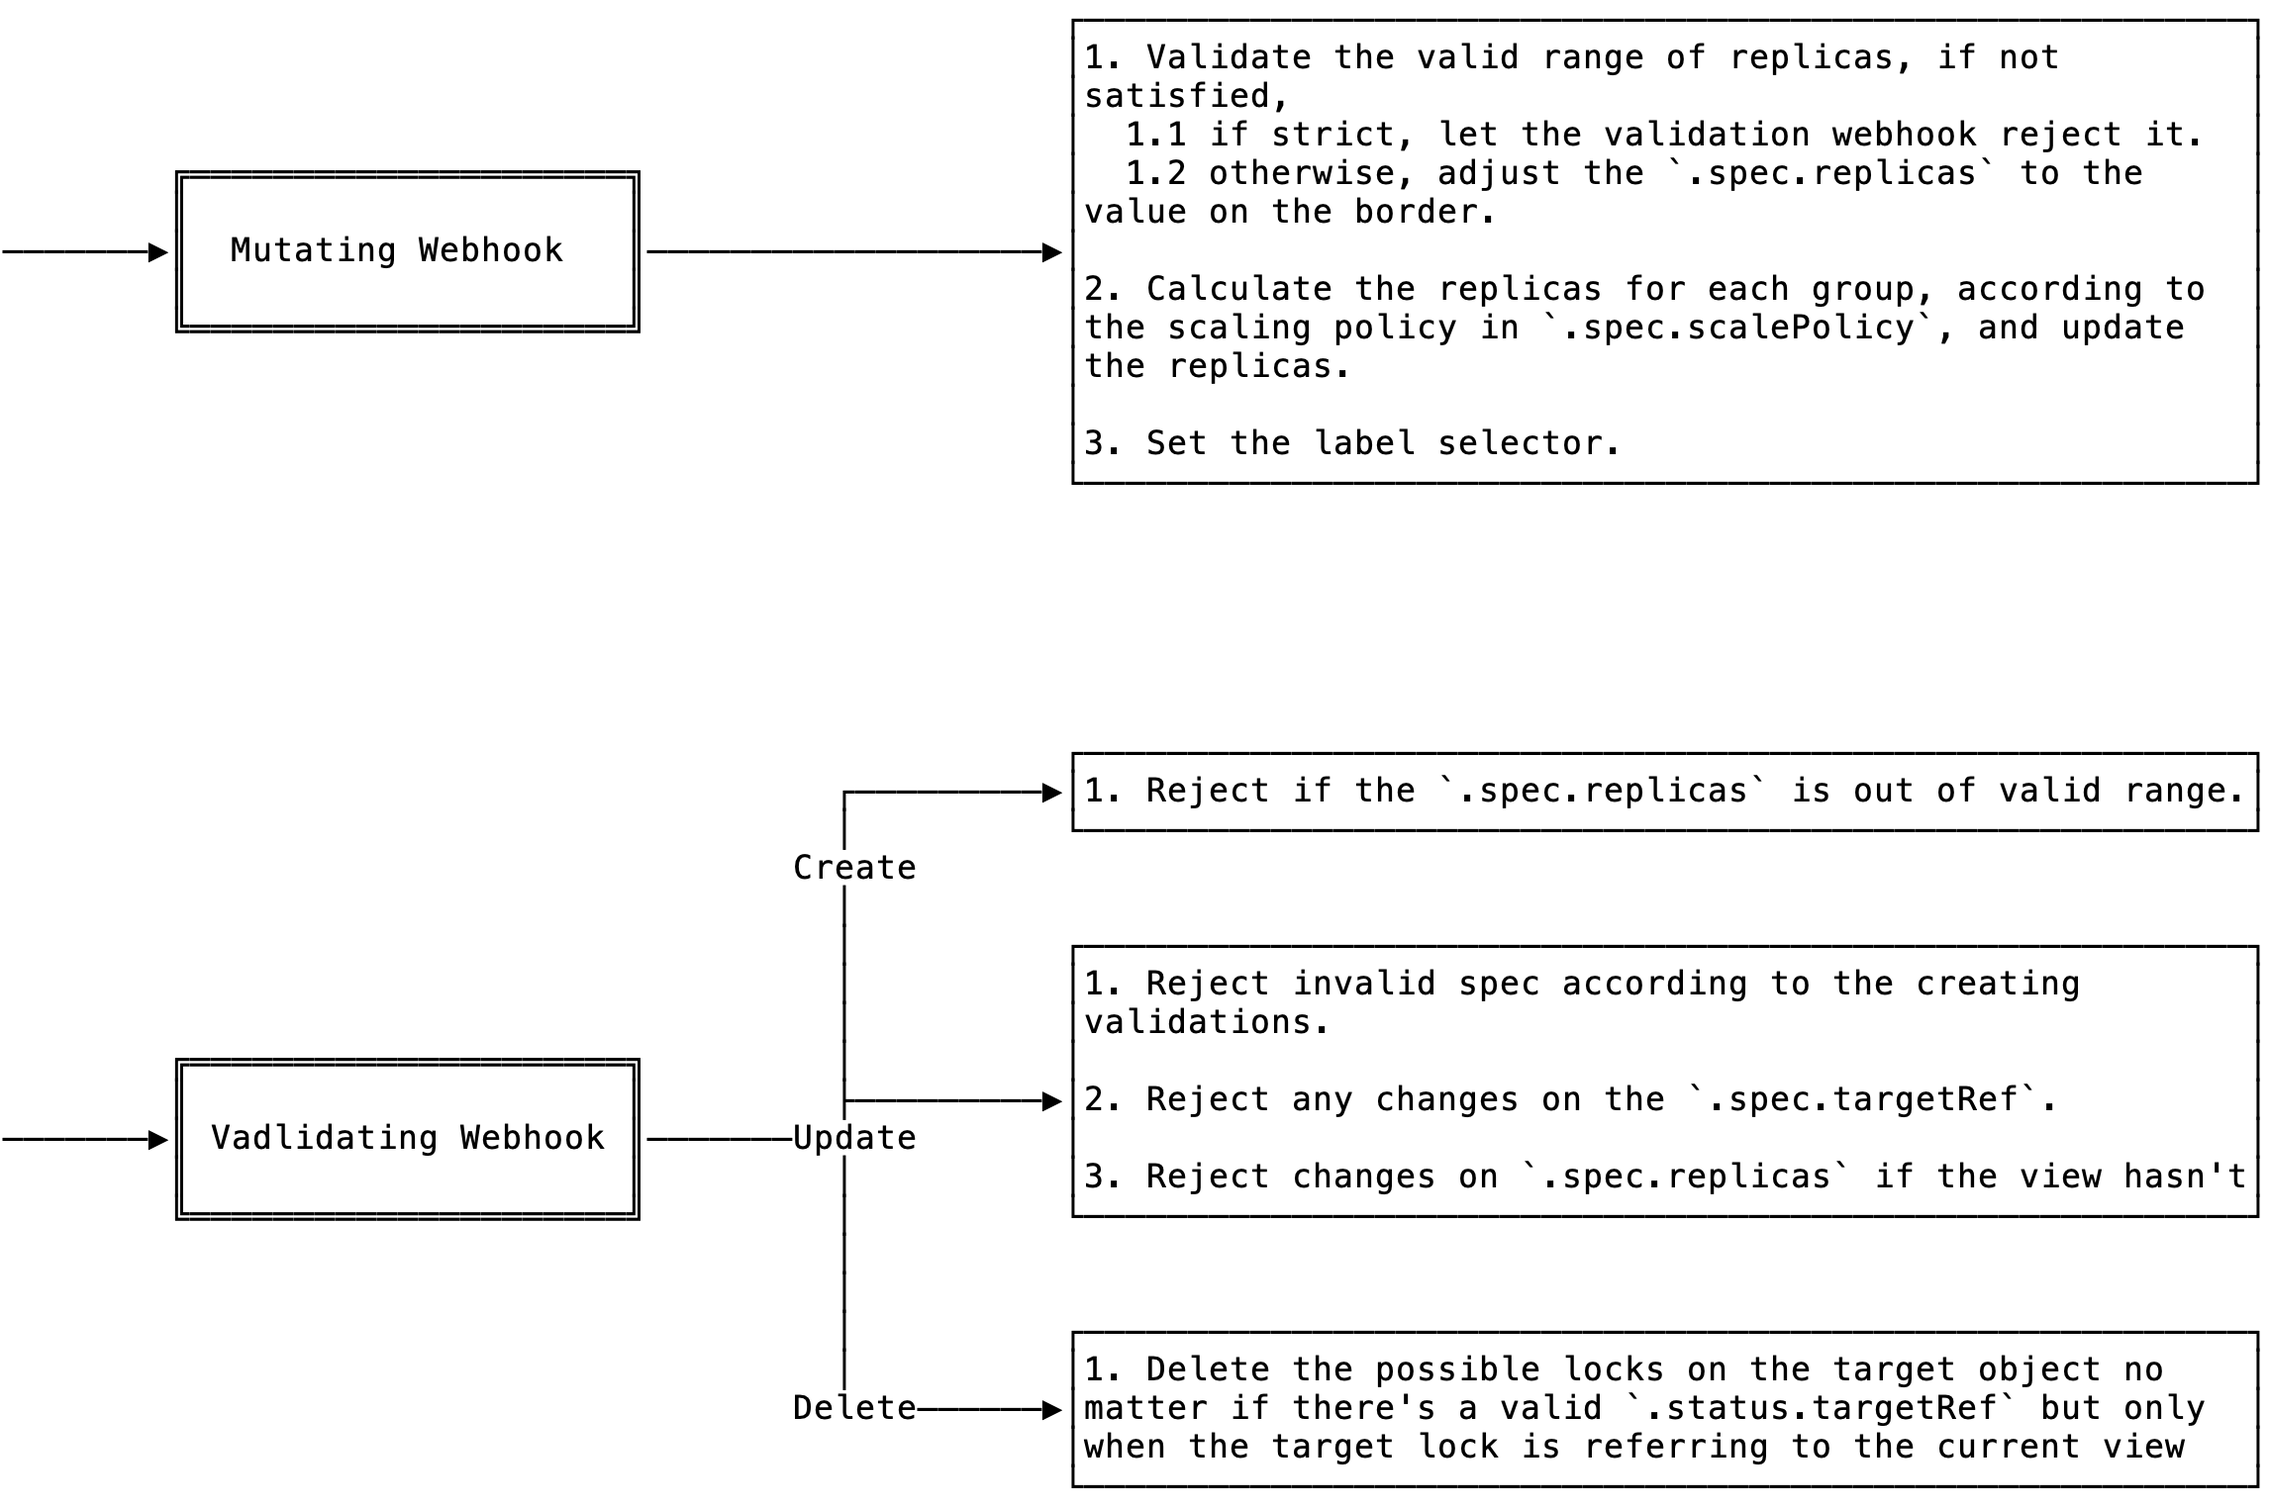
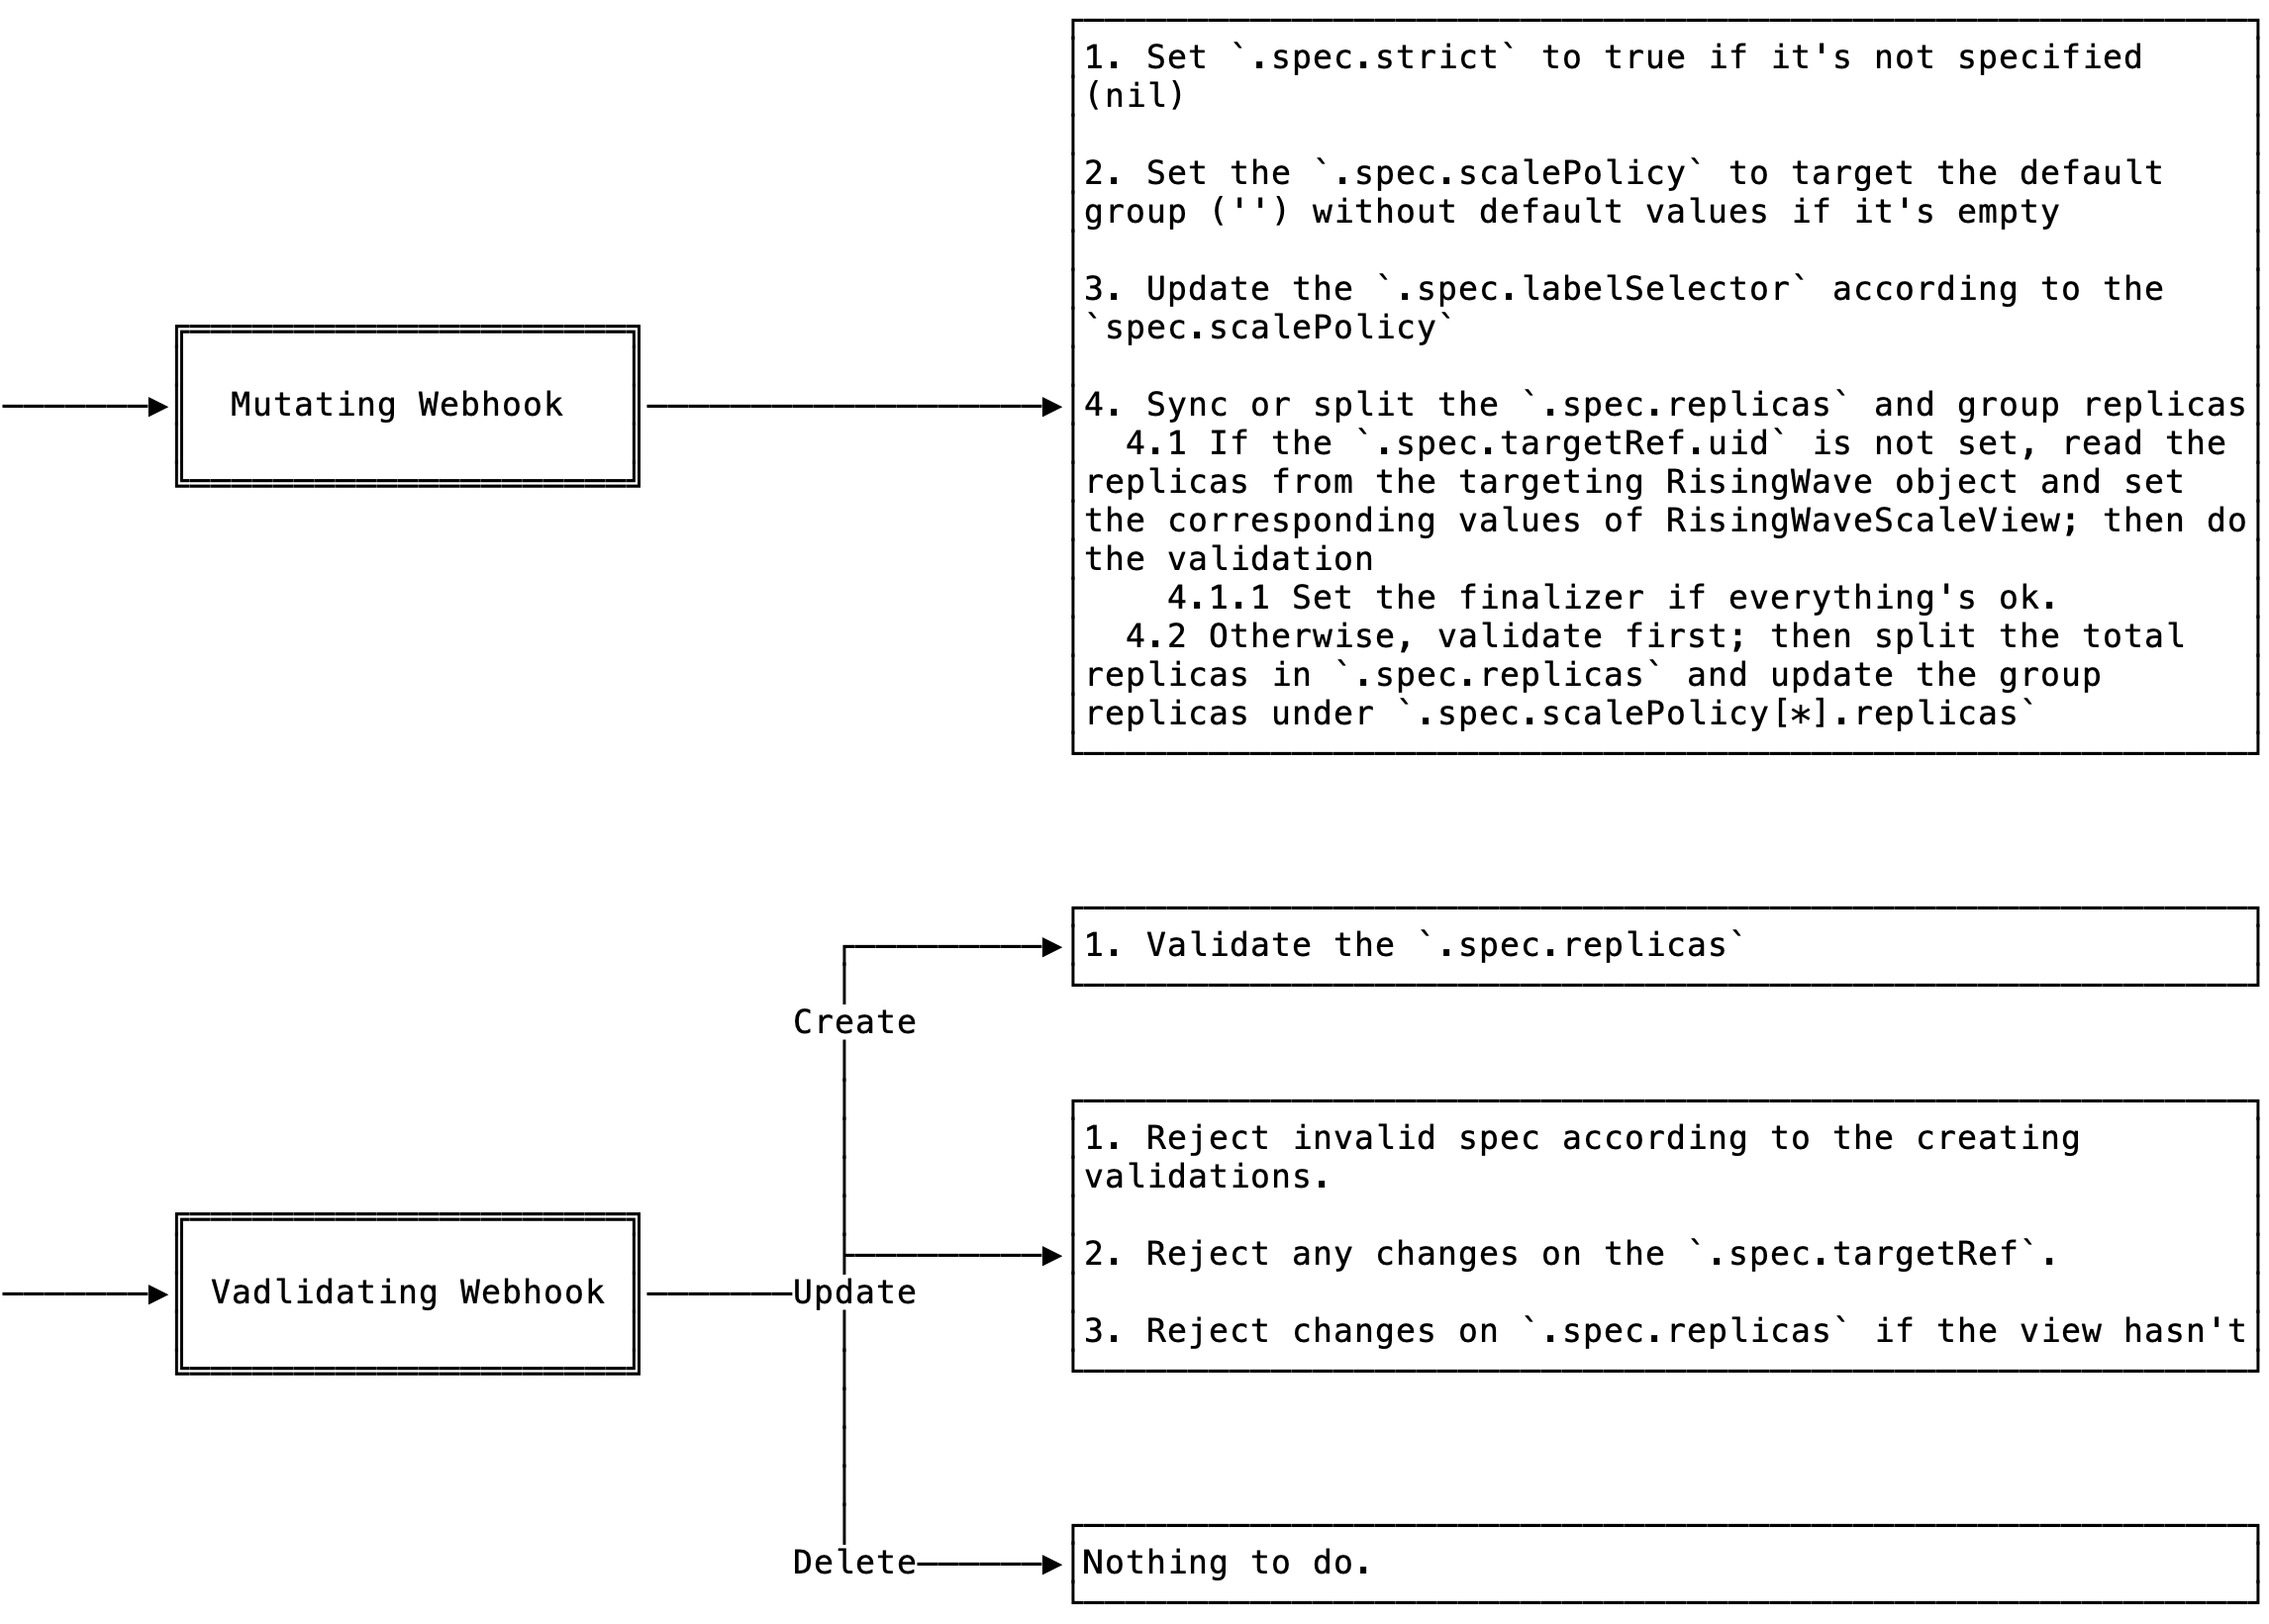
docs(rfc): update RFC-0004, fix bugs and improve the details

diff --git a/docs/rfc/0004_component_groups_scale_view.md b/docs/rfc/0004_component_groups_scale_view.md
@@ -10,7 +10,9 @@
 
 # **Summary**
 
-The RFC aims to provide a new CR to support the [scale subresource](https://kubernetes.io/docs/tasks/extend-kubernetes/custom-resources/custom-resource-definitions/#scale-subresource) over groups of some user-specified component of
+The RFC aims to provide a new CR to support
+the [scale subresource](https://kubernetes.io/docs/tasks/extend-kubernetes/custom-resources/custom-resource-definitions/#scale-subresource)
+over groups of some user-specified component of
 the RisingWave resource. With that, the users can benefit from the scale subresource and apply any tools that have such
 requirement. For example, the horizontal auto-scaling service (HPA/[KEDA](https://github.com/kedacore/keda)) will work
 after this is implemented.
@@ -72,12 +74,14 @@ spec:
   targetRef:
     name: hello             # Name of the RisingWave object, in the same namespace.
     component: frontend     # One of meta, frontend, compute, and compactor.
+    uid: ''                 # UID of the target object. Should be set by the mutating webhook.
   replicas: 10              # Target replicas. It will be synced from the RisingWave object when the controller grabs the lock.
   # Strict verification mode on replicas:
   #   1. If enabled, the validating webhook will reject any invalid changes on .spec.replicas (e.g., exceeding the min/max range)
   #   2. If disabled, the mutating webhook will adjust the .spec.replicas to be enclosed by the range.
   # Serialized label selector. Would be set by the webhook.
   strict: false
+  # Label selector in string. Should be updated by the mutating webhook.
   labelSelector: "risingwave/name=hello,risingwave/component=frontend,risingwave/group in (enduring,spot)"
   scalePolicy: # An array of groups and the policies for scale, 
   # optional and empty means the default group with the default policy.
@@ -94,8 +98,6 @@ spec:
     priority: 0
     replicas: 3
 status:
-  targetRef: # It has value only if the scale view has grabbed the lock on the target object.
-    uid:                    # UID of the target object.           
   replicas: 10             # Current replicas of target groups. Maintained by the controller.
 ```
 
@@ -122,10 +124,10 @@ metadata:
 status:
   scaleViews: # An array of scale view summaries. Maintained by the RisingWaveScaleView controller.
   - name: hello-frontend-scale-view # Name of the RisingWaveScaleView object.
-    uid:                            # UID of the object.
+    uid: ''                         # UID of the object.
     component: frontend             # Component.
     generation: 10                  # Generation of the RisingWaveScaleView object. It indicates the locked version.
-    groupReplicas: # Group and their desired replicas. Once a group is owned by some scale view, then another scale view
+    groupLocks: # Group and their desired replicas. Once a group is owned by some scale view, then another scale view
     # would not be able to grab the lock again. It's achieved with the atomic update.
     # If a group and its desired replicas is listed below, then any changes to the target group's replicas will be rejected
     # unless it equals to the replicas here (hence locks that group). This should be guaranteed by the webhook. 
@@ -138,7 +140,9 @@ status:
 Validating webhook:
 
 - If the webhook observes scaleViews field, it must check the replicas field of each target groups and reject any change
-  not matches.
+  not matches, which is to say: if a group is locked, then the replicas of it must be either:
+  - not changed (identical to the older value)
+  - equals to the value in the lock
 
 This is a compatible change and should not affect the RisingWave's workflow.
 
@@ -155,7 +159,7 @@ This is a compatible change and should not affect the RisingWave's workflow.
 Case 1. Multi-AZ frontend and balanced scale
 
 ```yaml
-apiVersion: risingwave.singularity-data.com/v1alpha1
+apiVersion: risingwave.risingwavelabs.com/v1alpha1
 kind: RisingWave
 metadata:
   name: multi-az
@@ -208,7 +212,7 @@ template:
       operator: Exists
       effect: NoSchedule
 ---
-apiVersion: risingwave.singularity-data.com/v1alpha1
+apiVersion: risingwave.risingwavelabs.com/v1alpha1
 kind: RisingWave
 metadata:
   name: spot-c
